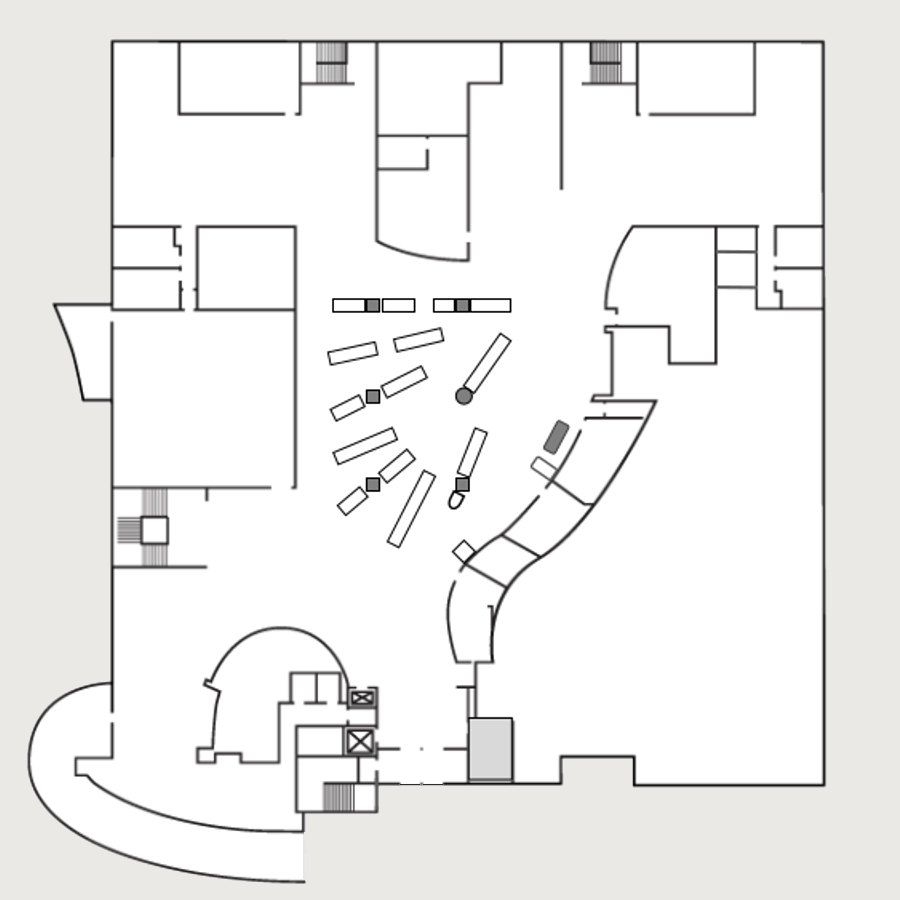
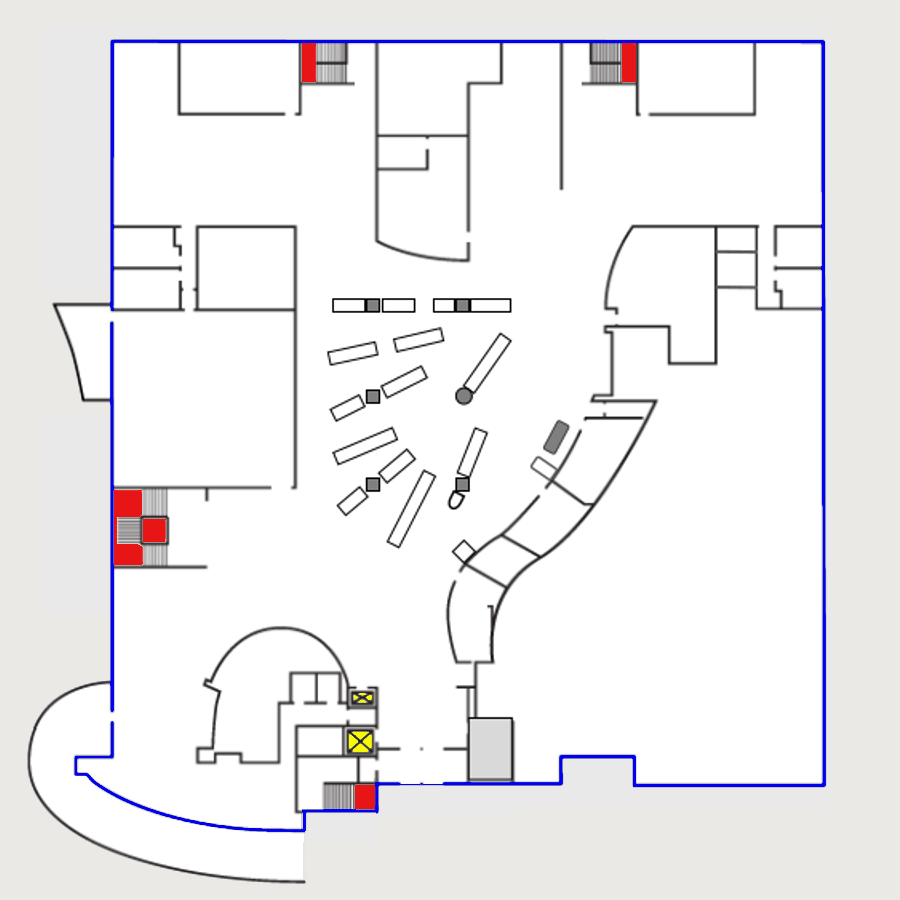
Add blue border wall for main floor template

diff --git a/config/config.js b/config/config.js
@@ -13,6 +13,7 @@ var config = {
 	"default_map": "top_floor",
 
 	"map_labels": {
+		
 		"top_floor": "Top Floor",
 		"main_floor": "Main Floor",
 		"bottom_floor": "Bottom Floor"

diff --git a/index.html b/index.html
@@ -15,10 +15,7 @@
 	</head>
 	<body>
 		<div id="map">
-				
-
-					<div id="dulibmap"></div>
-
+			<div id="dulibmap"></div>
 		</div>
 	</body>
 	<footer>

diff --git a/assets/css/style.css b/assets/css/style.css
@@ -87,7 +87,7 @@ h3 {
 }
 
 div.select-menu > form input[type*="checkbox"] {
-	margin-right: 10px;
+    margin: 20px 10px 0 0;
 }
 
 img.map-base,
